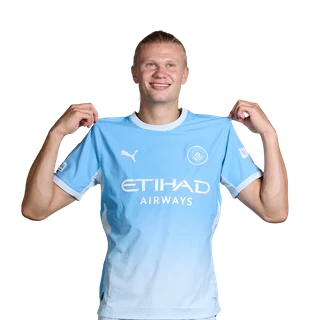
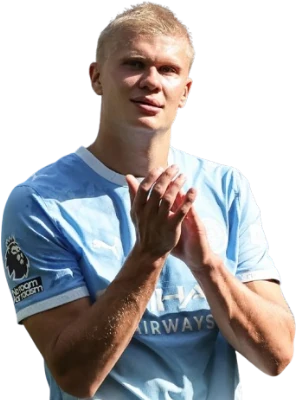
Update player photos and fix league and club badges

diff --git a/club-badges.js b/club-badges.js
@@ -1,1 +1,1 @@
-const CLUB_BADGE_IDS={"1. FC Köln":"122","AC Milan":"103","ADO Den Haag":"2726","AS Monaco":"174","AS Roma":"104","AZ Alkmaar":"140","Abha":"21833","Académico de Viseu":"21607","Ajax":"139","Al Ahli":"8346","Al Diriyah":"131746","Al Ettifaq":"8363","Al Faisaly":"21446","Al Fateh":"13033","Al Hazm":"21964","Al Hilal":"929","Al Ittihad":"2276","Al Khaleej":"21829","Al Kholood":"22028","Al Nassr":"817","Al Riyadh":"21965","Al Shabab":"793","Al Taawoun":"18459","Al-Fayha":"21827","Al-Qadsiah":"22022","Alavés":"96","Alverca":"21613","Angers":"7868","Arouca":"15784","Arsenal":"359","Aston Villa":"362","Atalanta":"105","Athletic Club":"93","Athletico Paranaense":"3458","Atlanta United":"18418","Atlético Madrid":"1068","Atlético Mineiro":"7632","Austin FC":"20906","Auxerre":"172","Avispa Fukuoka":"7107","Bahia":"9967","Barcelona":"83","Bayer Leverkusen":"131","Bayern Munich":"132","Benfica":"1929","Boca Juniors":"5","Bologna":"107","Borussia Dortmund":"124","Borussia Mönchengladbach":"268","Botafogo":"6086","Bournemouth":"349","Braga":"2994","Brentford":"337","Brest":"6997","Brighton":"331","CF Montréal":"9720","Cagliari":"2925","Cambuur":"3736","Casa Pia":"21581","Celta Vigo":"85","Celtic":"256","Cerezo Osaka":"7109","Chapecoense":"9318","Charlotte FC":"21300","Chelsea":"363","Chicago Fire":"182","Club América":"227","Colorado Rapids":"184","Columbus Crew":"183","Como":"2572","Corinthians":"874","Coritiba":"3456","Coventry City":"388","Cruzeiro":"2022","Crystal Palace":"384","Deportivo La Coruña":"90","Eintracht Frankfurt":"125","Elche":"3751","Espanyol":"88","Estoril Praia":"12216","Estrela da Amadora":"21610","Everton":"368","Excelsior":"2566","FC Augsburg":"3841","FC Barcelona":"83","FC Cincinnati":"18267","FC Dallas":"185","FC Groningen":"145","FC Porto":"437","FC Tokyo":"3384","FC Twente":"152","FC Utrecht":"153","Fagiano Okayama":"22522","Famalicão":"12698","Fenerbahçe":"436","Feyenoord":"142","Fiorentina":"109","Flamengo":"819","Fluminense":"3445","Fortuna Sittard":"143","Frosinone":"4057","Fulham":"370","Galatasaray":"432","Gamba Osaka":"7102","Genoa":"3263","Getafe":"2922","Gil Vicente":"3699","Go Ahead Eagles":"3706","Grêmio":"6273","Hamburger SV":"127","Heerenveen":"146","Houston Dynamo":"6077","Hull City":"306","Inter Miami":"20232","Inter Milan":"110","Internacional":"1936","Ipswich Town":"373","JEF United Chiba":"7111","Juventus":"111","Kashima Antlers":"7115","Kashiwa Reysol":"7476","Kawasaki Frontale":"7112","Kyoto Sanga":"21361","LA Galaxy":"187","Lazio":"112","Le Havre":"3236","Le Mans":"2697","Lecce":"113","Leeds United":"357","Lens":"175","Levante":"1538","Lille":"166","Liverpool":"364","Lorient":"273","Los Angeles FC":"18966","Lyon":"167","Machida Zelvia":"22167","Mainz 05":"2950","Mamelodi Sundowns":"7084","Manchester City":"382","Manchester United":"360","Marseille":"176","Marítimo":"552","Minnesota United":"17362","Mirassol":"9169","Mito HollyHock":"131701","Monaco":"174","Monza":"4007","Moreirense":"3696","Málaga":"99","NEC Nijmegen":"147","NEOM SC":"130899","Nacional":"3472","Nagoya Grampus":"7108","Napoli":"114","Nashville SC":"18986","New England Revolution":"189","New York City FC":"17606","New York Red Bulls":"190","Newcastle United":"361","Nice":"2502","Nottingham Forest":"393","Olympique Lyonnais":"167","Olympique de Marseille":"176","Orlando City":"12011","Osasuna":"97","PEC Zwolle":"2565","PSV Eindhoven":"148","Palmeiras":"2029","Paris FC":"6851","Paris Saint-Germain":"160","Parma":"115","Peñarol":"2683","Philadelphia Union":"10739","Portland Timbers":"9723","RB Leipzig":"11420","Racing Santander":"87","Rangers":"257","Rayo Vallecano":"101","Real Betis":"244","Real Madrid":"86","Real Salt Lake":"4771","Real Sociedad":"89","Red Bull Bragantino":"6079","Remo":"4936","Rennes":"169","Rio Ave":"3822","River Plate":"16","Roma":"104","SC Braga":"2994","SC Freiburg":"126","SC Paderborn":"3307","SV Elversberg":"10388","San Diego FC":"22529","San Jose Earthquakes":"191","Sanfrecce Hiroshima":"7114","Santa Clara":"12215","Santos":"2674","Sassuolo":"3997","Schalke 04":"133","Seattle Sounders":"9726","Sevilla":"243","Shimizu S-Pulse":"7104","Sparta Rotterdam":"151","Sporting CP":"2250","Sporting Kansas City":"186","St. Louis City":"21812","Strasbourg":"180","Sunderland":"366","São Paulo":"2026","TSG Hoffenheim":"7911","Telstar":"3735","Tokyo Verdy":"3393","Torino":"239","Toronto FC":"7318","Tottenham Hotspur":"custom-tottenham","Ulsan HD":"custom-ulsan-hd","Ulsan Hyundai":"custom-ulsan-hd","Al Ain FC":"custom-al-ain-fc","Al Ain":"custom-al-ain-fc","Al Ahly":"custom-al-ahly","Al Ahly FC":"custom-al-ahly","Zamalek":"custom-zamalek","Zamalek SC":"custom-zamalek","Wydad AC":"custom-wydad-ac","Wydad Casablanca":"custom-wydad-ac","Espérance de Tunis":"custom-esperance-de-tunis","Esperance de Tunis":"custom-esperance-de-tunis","TP Mazembe":"custom-tp-mazembe","Auckland City":"custom-auckland-city","Toulouse":"179","Troyes":"170","Udinese":"118","Union Berlin":"598","Urawa Red Diamonds":"3385","V-Varen Nagasaki":"19001","Valencia":"94","Vancouver Whitecaps":"9727","Vasco da Gama":"3454","Venezia":"17530","VfB Stuttgart":"134","Villarreal":"102","Vissel Kobe":"7477","Vitória":"5309","Vitória de Guimarães":"5309","Werder Bremen":"137","Willem II":"156","Yokohama F. Marinos":"7116","DC United":"193","VfL Wolfsburg":"82","Sampdoria":"1038","Burnley":"1132","West Ham United":"379"};
+const CLUB_BADGE_IDS={"Red Star Belgrade":"custom-red-star-belgrade","1. FC Köln":"122","AC Milan":"103","ADO Den Haag":"2726","AS Monaco":"174","AS Roma":"104","AZ Alkmaar":"140","Abha":"21833","Académico de Viseu":"21607","Ajax":"139","Al Ahli":"8346","Al Diriyah":"131746","Al Ettifaq":"8363","Al Faisaly":"21446","Al Fateh":"13033","Al Hazm":"21964","Al Hilal":"929","Al Ittihad":"2276","Al Khaleej":"21829","Al Kholood":"22028","Al Nassr":"817","Al Riyadh":"21965","Al Shabab":"793","Al Taawoun":"18459","Al-Fayha":"21827","Al-Qadsiah":"22022","Alavés":"96","Alverca":"21613","Angers":"7868","Arouca":"15784","Arsenal":"359","Aston Villa":"362","Atalanta":"105","Athletic Club":"93","Athletico Paranaense":"3458","Atlanta United":"18418","Atlético Madrid":"1068","Atlético Mineiro":"7632","Austin FC":"20906","Auxerre":"172","Avispa Fukuoka":"7107","Bahia":"9967","Barcelona":"83","Bayer Leverkusen":"131","Bayern Munich":"132","Benfica":"1929","Boca Juniors":"5","Bologna":"107","Borussia Dortmund":"124","Borussia Mönchengladbach":"268","Botafogo":"6086","Bournemouth":"349","Braga":"2994","Brentford":"337","Brest":"6997","Brighton":"331","CF Montréal":"9720","Cagliari":"2925","Cambuur":"3736","Casa Pia":"21581","Celta Vigo":"85","Celtic":"256","Cerezo Osaka":"7109","Chapecoense":"9318","Charlotte FC":"21300","Chelsea":"363","Chicago Fire":"182","Club América":"227","Colorado Rapids":"184","Columbus Crew":"183","Como":"2572","Corinthians":"874","Coritiba":"3456","Coventry City":"388","Cruzeiro":"2022","Crystal Palace":"384","Deportivo La Coruña":"90","Eintracht Frankfurt":"125","Elche":"3751","Espanyol":"88","Estoril Praia":"12216","Estrela da Amadora":"21610","Everton":"368","Excelsior":"2566","FC Augsburg":"3841","FC Barcelona":"83","FC Cincinnati":"18267","FC Dallas":"185","FC Groningen":"145","FC Porto":"437","FC Tokyo":"3384","FC Twente":"152","FC Utrecht":"153","Fagiano Okayama":"22522","Famalicão":"12698","Fenerbahçe":"436","Feyenoord":"142","Fiorentina":"109","Flamengo":"819","Fluminense":"3445","Fortuna Sittard":"143","Frosinone":"4057","Fulham":"370","Galatasaray":"432","Gamba Osaka":"7102","Genoa":"3263","Getafe":"2922","Gil Vicente":"3699","Go Ahead Eagles":"3706","Grêmio":"6273","Hamburger SV":"127","Heerenveen":"146","Houston Dynamo":"6077","Hull City":"306","Inter Miami":"20232","Inter Milan":"110","Internacional":"1936","Ipswich Town":"373","JEF United Chiba":"7111","Juventus":"111","Kashima Antlers":"7115","Kashiwa Reysol":"7476","Kawasaki Frontale":"7112","Kyoto Sanga":"21361","LA Galaxy":"187","Lazio":"112","Le Havre":"3236","Le Mans":"2697","Lecce":"113","Leeds United":"357","Lens":"175","Levante":"1538","Lille":"166","Liverpool":"364","Lorient":"273","Los Angeles FC":"18966","Lyon":"167","Machida Zelvia":"22167","Mainz 05":"2950","Mamelodi Sundowns":"7084","Manchester City":"382","Manchester United":"360","Marseille":"176","Marítimo":"552","Minnesota United":"17362","Mirassol":"9169","Mito HollyHock":"131701","Monaco":"174","Monza":"4007","Moreirense":"3696","Málaga":"99","NEC Nijmegen":"147","NEOM SC":"130899","Nacional":"3472","Nagoya Grampus":"7108","Napoli":"114","Nashville SC":"18986","New England Revolution":"189","New York City FC":"17606","New York Red Bulls":"190","Newcastle United":"361","Nice":"2502","Nottingham Forest":"393","Olympique Lyonnais":"167","Olympique de Marseille":"176","Orlando City":"12011","Osasuna":"97","PEC Zwolle":"2565","PSV Eindhoven":"148","Palmeiras":"2029","Paris FC":"6851","Paris Saint-Germain":"160","Parma":"115","Peñarol":"2683","Philadelphia Union":"10739","Portland Timbers":"9723","RB Leipzig":"11420","Racing Santander":"87","Rangers":"257","Rayo Vallecano":"101","Real Betis":"244","Real Madrid":"86","Real Salt Lake":"4771","Real Sociedad":"89","Red Bull Bragantino":"6079","Remo":"4936","Rennes":"169","Rio Ave":"3822","River Plate":"16","Roma":"104","SC Braga":"2994","SC Freiburg":"126","SC Paderborn":"3307","SV Elversberg":"10388","San Diego FC":"22529","San Jose Earthquakes":"191","Sanfrecce Hiroshima":"7114","Santa Clara":"12215","Santos":"2674","Sassuolo":"3997","Schalke 04":"133","Seattle Sounders":"9726","Sevilla":"243","Shimizu S-Pulse":"7104","Sparta Rotterdam":"151","Sporting CP":"2250","Sporting Kansas City":"186","St. Louis City":"21812","Strasbourg":"180","Sunderland":"366","São Paulo":"2026","TSG Hoffenheim":"7911","Telstar":"3735","Tokyo Verdy":"3393","Torino":"239","Toronto FC":"7318","Tottenham Hotspur":"custom-tottenham","Ulsan HD":"custom-ulsan-hd","Ulsan Hyundai":"custom-ulsan-hd","Al Ain FC":"custom-al-ain-fc","Al Ain":"custom-al-ain-fc","Al Ahly":"custom-al-ahly","Al Ahly FC":"custom-al-ahly","Zamalek":"custom-zamalek","Zamalek SC":"custom-zamalek","Wydad AC":"custom-wydad-ac","Wydad Casablanca":"custom-wydad-ac","Espérance de Tunis":"custom-esperance-de-tunis","Esperance de Tunis":"custom-esperance-de-tunis","TP Mazembe":"custom-tp-mazembe","Auckland City":"custom-auckland-city","Toulouse":"179","Troyes":"170","Udinese":"118","Union Berlin":"598","Urawa Red Diamonds":"3385","V-Varen Nagasaki":"19001","Valencia":"94","Vancouver Whitecaps":"9727","Vasco da Gama":"3454","Venezia":"17530","VfB Stuttgart":"134","Villarreal":"102","Vissel Kobe":"7477","Vitória":"5309","Vitória de Guimarães":"5309","Werder Bremen":"137","Willem II":"156","Yokohama F. Marinos":"7116","DC United":"193","VfL Wolfsburg":"82","Sampdoria":"1038","Burnley":"1132","West Ham United":"379"};

diff --git a/app.js b/app.js
@@ -90,7 +90,7 @@ const PLAYER_PHOTOS={
  "Kaká":"kaka","Zinedine Zidane":"zinedine-zidane","Luís Figo":"luis-figo","Luis Figo":"luis-figo","Hernán Crespo":"hernan-crespo","Christian Vieri":"christian-vieri","Denílson":"denilson","Ronaldo":"ronaldo-brazil","Alan Shearer":"alan-shearer","Gianluigi Lentini":"gianluca-lentini","Gianluca Lentini":"gianluca-lentini","Gianluca Vialli":"gianluca-vialli","Jean-Pierre Papin":"jean-pierre-papin","Roberto Baggio":"roberto-baggio","Ruud Gullit":"ruud-gullit","Diego Maradona":"maradona-1982",
  "Julián Álvarez":"julian-alvarez","Julian Álvarez":"julian-alvarez","Kai Havertz":"kai-havertz","Kevin De Bruyne":"kevin-de-bruyne","Luis Suárez":"luis-suarez","Luís Suárez":"luis-suarez","Hulk":"hulk","Fernando Torres":"fernando-torres-2007","David Villa":"david-villa","Robinho":"robinho","Andriy Shevchenko":"andriy-shevchenko","Michael Essien":"michael-essien","Wayne Rooney":"wayne-rooney","David Beckham":"david-beckham","Rio Ferdinand":"rio-ferdinand"
 };
-function playerPortrait(name,override){const photo=override||PLAYER_PHOTOS[name];return photo?'<img class="avatar player-photo" src="assets/player-photos/'+photo+'.webp?v=player-portraits-20261104g" alt="" aria-hidden="true" loading="lazy">':''}
+function playerPortrait(name,override){const photo=override||PLAYER_PHOTOS[name];return photo?'<img class="avatar player-photo" src="assets/player-photos/'+photo+'.webp?v=player-portraits-20261104h" alt="" aria-hidden="true" loading="lazy">':''}
 function recordPortrait(r){if(r[1]==="Diego Maradona")return r[0]==="1984"?"maradona-1984":"maradona-1982";return PLAYER_PHOTOS[r[1]]}
 function yearPortrait(r){if(r[1]==="Fernando Torres")return r[0]==="2011"?"fernando-torres-2011":"fernando-torres-2007";return PLAYER_PHOTOS[r[1]]}
 function avatar(name,col){

diff --git a/index.html b/index.html
@@ -14,11 +14,11 @@
 <script src="https://cdnjs.cloudflare.com/ajax/libs/d3/7.9.0/d3.min.js" defer></script>
 <script src="https://cdn.jsdelivr.net/npm/topojson-client@3/dist/topojson-client.min.js" defer></script>
 <script src="data.js?v=club-logos-20261104" defer></script>
-<script src="club-badges.js?v=custom-team-badges-20261104" defer></script>
+<script src="club-badges.js?v=red-star-20261104" defer></script>
 <script src="standings.js" defer></script>
 <script src="extra.js" defer></script>
 <script src="profiles.js" defer></script>
-<script src="app.js?v=player-portraits-20261104g" defer></script>
+<script src="app.js?v=player-portraits-20261104h" defer></script>
 </head>
 <body>
 <nav class="top" aria-label="Pages">
